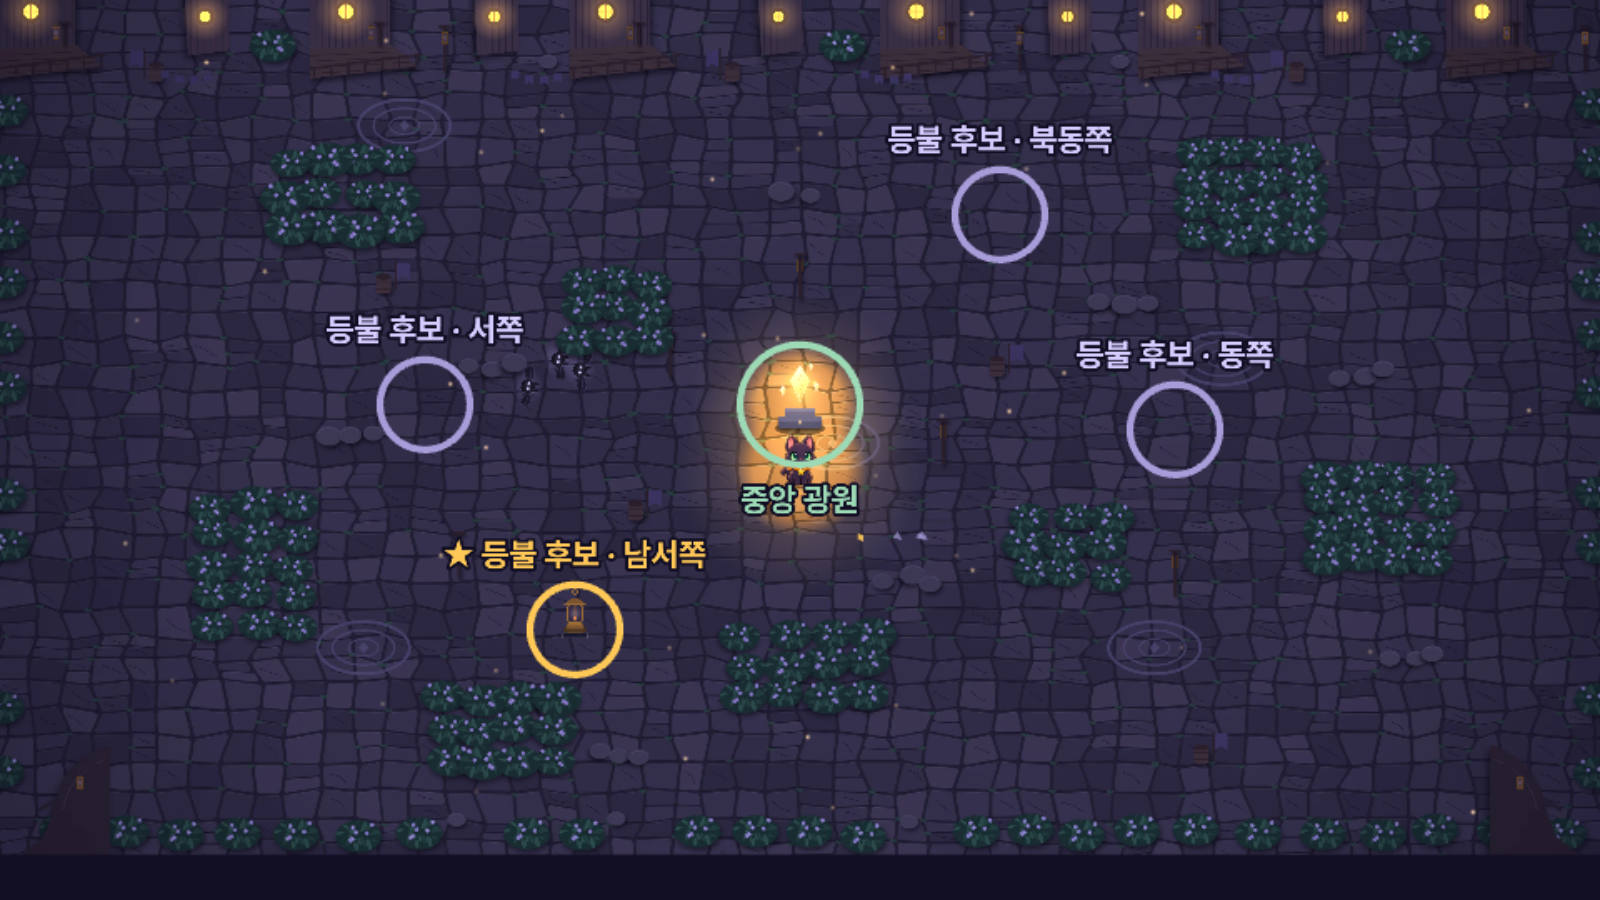
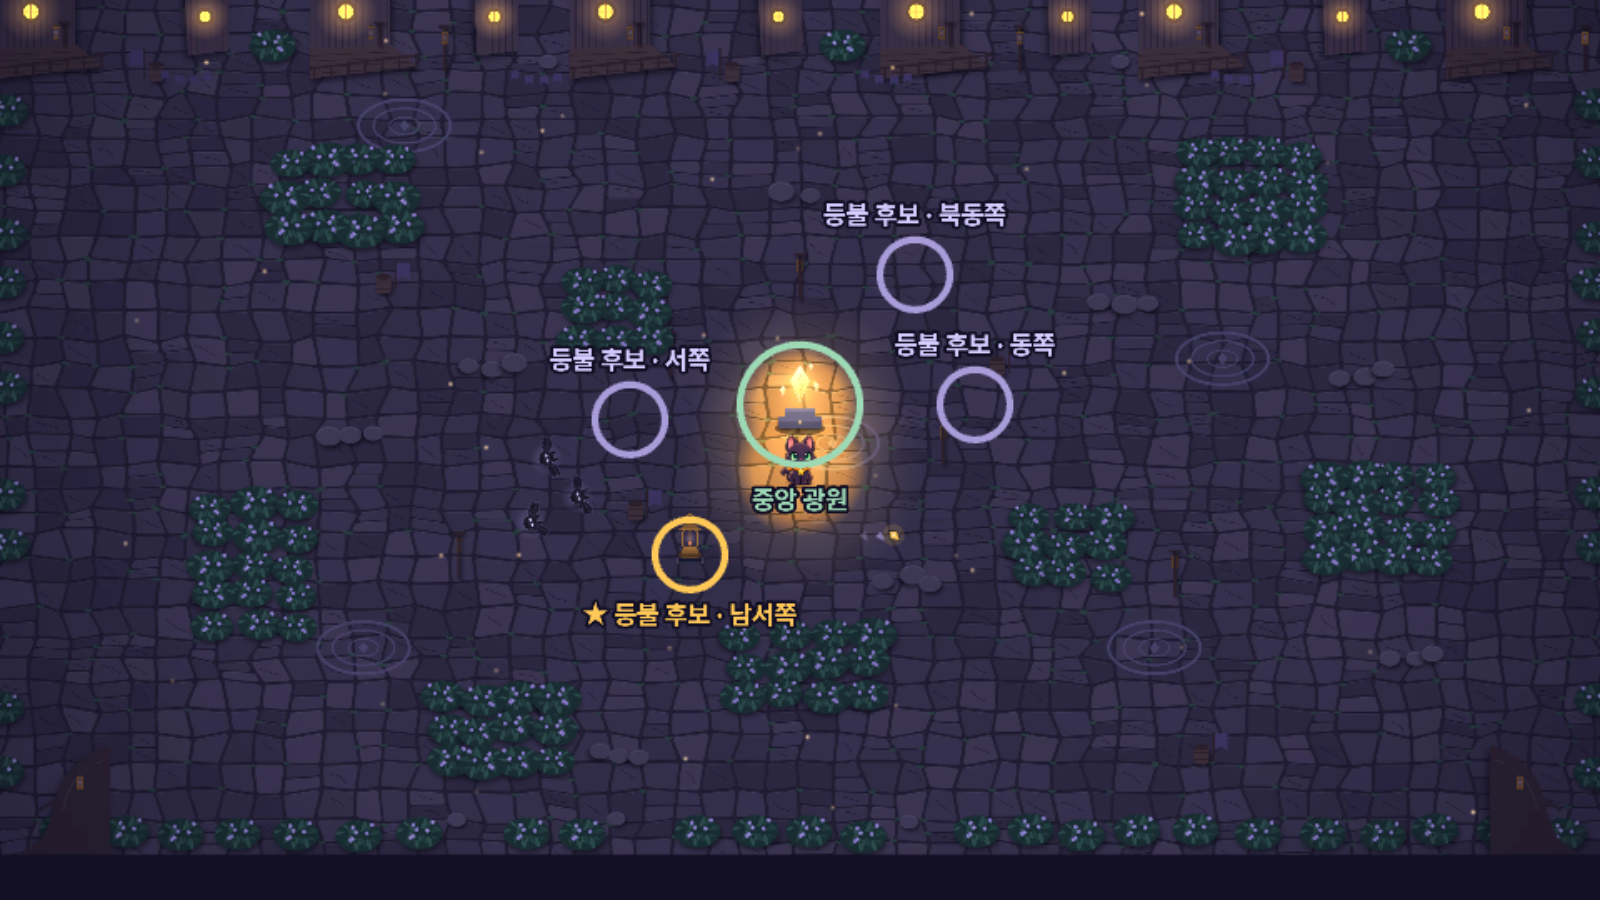
등불 자리를 중앙 가까이, 휴대폰 회전 시 화면이 작아지던 문제 수정
- 등불 후보 4곳을 중앙에서 약 340~370으로(처음 550~750), 지도 캡처·문서 갱신
- 레이아웃이 바뀌면 Phaser 부모 크기를 바로 다시 재고 0.12·0.4초 뒤 한 번 더 맞춤
  (옛 상자 폭에 갇혀 캔버스가 219×101로 굳던 문제, 헤드리스 휴대폰 회전으로 재현·확인)

Claude-Session: https://claude.ai/code/session_01HrPbr5mJU6i3pPUacduwos

diff --git a/docs/plan/revisions.html b/docs/plan/revisions.html
@@ -178,7 +178,7 @@
 </div>
 <ul>
   <li>마을 16:9 <b>3200×1800</b>, 카메라가 루미를 따라가고 둘 다 마을 밖으로 못 나간다. 화면은 짧은 변 540 고정(가로 폭 720~1280)이라 물체 크기는 그대로, 보는 프레임만 바뀐다.</li>
-  <li><b>중앙 광원</b>(1600, 900). <b>등불 자리 후보</b> 서쪽(850, 900) · 동쪽(2350, 950) · 북동쪽(2000, 520) · 남서쪽(1150, 1350) — 중앙에서 450~900 떨어진 외곽. 스테이지의 등불 수만큼(<b>첫 스테이지 1개</b>, 이후 최대 4개) 판마다 seed로 고른다. 화면 밖의 꺼진 등불은 가장자리에 숨 쉬듯 번지는 <b>호박빛 마름모</b>로 알리고, 판 시작에 "호박빛 표시를 따라 꺼진 등불을 켜요"라고 한 번 안내한다 <span class="tag">제안</span></li>
+  <li><b>중앙 광원</b>(1600, 900). <b>등불 자리 후보</b> 서쪽(1260, 930) · 동쪽(1950, 900) · 북동쪽(1830, 640) · 남서쪽(1380, 1200) — 중앙에서 약 340~370(2026-11-12 라이언: 멀다 → 가까이). 스테이지의 등불 수만큼(<b>첫 스테이지 1개</b>, 이후 최대 4개) 판마다 seed로 고른다. 화면 밖의 꺼진 등불은 가장자리에 숨 쉬듯 번지는 <b>호박빛 마름모</b>로 알리고, 판 시작에 "호박빛 표시를 따라 꺼진 등불을 켜요"라고 한 번 안내한다 <span class="tag">제안</span></li>
   <li><b>풀숲</b> 8곳: 들어가면 반투명, 140 안의 적만 알아채고 쫓던 적은 3초 맴돌다 광원으로, 빛을 쏘면 1초 드러남. 오래 숨으면 루미 자신의 빛 때문에 은신이 풀림 <span class="tag tag--todo">Phase 2</span></li>
   <li><b>장애물</b>: 바위·술통·등불 기둥 + 광원 받침·등불 밑동(루미는 못 지나감, 박쥐는 날아서 무시). 마을 건물·울타리·강과 다리, 지역 3구획 <span class="tag tag--todo">Phase 2</span></li>
 </ul>

diff --git a/src/ui/layout.ts b/src/ui/layout.ts
@@ -36,18 +36,33 @@ export function refreshLayout(): void {
   refresh();
 }
 
+/** 휴대폰은 방향을 바꾼 뒤에도 창 크기가 조금 늦게 확정된다: 그 뒤에 한 번 더 맞춘다 (ms) */
+const SETTLE_MS = [120, 400];
+
 export function watchLayout(game: Phaser.Game): void {
   let layout = applyLayout();
-  refresh = () => {
+  const sync = () => {
     const next = applyLayout();
     const view = currentView();
-    const size = game.scale.gameSize;
-    if (size.width !== view.width || size.height !== view.height) game.scale.setGameSize(view.width, view.height);
+    const scale = game.scale;
+    // 2026-11-12 휴대폰 회전 시 화면이 작아지던 문제: data-layout이 바뀌면 상자(#game의 부모) 크기도 바뀌는데,
+    // Phaser는 자기 차례(다음 폴링)에야 다시 잰다. 그 전에 새 비율로 맞추면 옛 상자 폭에 갇혀 작게 굳으므로 지금 다시 잰다.
+    scale.getParentBounds();
+    const size = scale.gameSize;
+    if (size.width !== view.width || size.height !== view.height) scale.setGameSize(view.width, view.height);
+    else scale.refresh();
     if (next !== layout) {
       layout = next;
       bus.emit('ui:layout', { layout });
     }
   };
+  let timers: number[] = [];
+  refresh = () => {
+    sync();
+    timers.forEach((t) => clearTimeout(t));
+    timers = SETTLE_MS.map((ms) => window.setTimeout(sync, ms));
+  };
   addEventListener('resize', refresh);
   screen.orientation?.addEventListener('change', refresh);
+  visualViewport?.addEventListener('resize', refresh);
 }

diff --git a/tests/map.test.ts b/tests/map.test.ts
@@ -52,11 +52,11 @@ describe('마을 배치', () => {
     }
   });
 
-  it('등불 자리는 중앙 광원에서 너무 멀지 않은 외곽 (XMind)', () => {
+  it('등불 자리는 중앙 광원 가까이 (2026-11-12 라이언: 멀다 → 약 340~370)', () => {
     for (const p of GameData.map.stations) {
       const d = Math.hypot(p.x - central.x, p.y - central.y);
-      expect(d).toBeGreaterThan(450);
-      expect(d).toBeLessThan(900);
+      expect(d).toBeGreaterThan(300);
+      expect(d).toBeLessThan(420);
     }
   });
 });

diff --git a/CLAUDE.md b/CLAUDE.md
@@ -65,7 +65,7 @@
 | LP | 10(=낮음, 0이 되지 않음)~100, 시작 100. 발사마다 −6, 꺼진 등불을 켜면 −10(쏜 뒤 깎임, 남은 양과 상관없이 켜짐 — XMind). 회복 초당: 들판 3 · 켜진 등불 180 안 6 · 중앙 광원 220 안 12. LP가 최소에 가까울수록 사거리·위력 ×0.7까지 약해짐. 루미 주변 빛(마을이 드러나는 반경)도 LP에 비례하고 진행할수록 넓어짐 |
 | 광도 | 0~100 연속값을 4단계로: <25 낮음 · <50 중간 · <75 밝음 · 크게 밝음 (`lightLevels`) |
 | 중앙 광원 | 맵 가운데(1600, 900), 광도 = HP(XMind). 45(중간)에서 시작해 초당 +0.4, 적에게 맞으면 감소, 10에 닿으면 꺼짐 = 게임 오버. 받침은 지나갈 수 없음 |
-| 등불 스테이션 | 1~4개(**1스테이지는 1개** — 2026-11-12 라이언 확인), 자리는 `map.json stations` 후보 4곳(서·동·북동·남서) 중 스테이지 등불 수만큼 판마다 seed로(외곽, 중앙에서 450~900). 화면 밖의 꺼진 등불은 가장자리 호박빛 마름모(크게, 1.6초 주기로 숨 쉬듯 번짐). HP 없이 광도 게이지. 꺼짐(10) → 빛을 맞으면 1.2초 뒤 켜짐(100) → 적에게 맞으면 광원 피해 ×0.5씩 감소, 10이면 다시 꺼짐. 맵 전체 광도가 더 크면 그 값을 따름. **모두 켜지면 맵 전체 광도 ×1.35(버프)** |
+| 등불 스테이션 | 1~4개(**1스테이지는 1개** — 2026-11-12 라이언 확인), 자리는 `map.json stations` 후보 4곳(서·동·북동·남서) 중 스테이지 등불 수만큼 판마다 seed로. 자리는 서(1260, 930)·동(1950, 900)·북동(1830, 640)·남서(1380, 1200) — **중앙에서 약 340~370**(2026-11-12 라이언: 멀다 → 처음 550~750에서 당김). 화면 밖의 꺼진 등불은 가장자리 호박빛 마름모(크게, 1.6초 주기로 숨 쉬듯 번짐). HP 없이 광도 게이지. 꺼짐(10) → 빛을 맞으면 1.2초 뒤 켜짐(100) → 적에게 맞으면 광원 피해 ×0.5씩 감소, 10이면 다시 꺼짐. 맵 전체 광도가 더 크면 그 값을 따름. **모두 켜지면 맵 전체 광도 ×1.35(버프)** |
 | 맵 전체 광도 | `systems/villageMood.ts MapLight`: 0.55 × 진행²(버프 ×1.35)이 켜진 마을로 드러남. 중앙 광원이 맞으면 −0.1, 루미가 맞으면 −0.03(클라이맥스 ×1.6), 초당 0.06씩 회복. 떨어진 폭이 밝아짐보다 크면 어둠이 덮임 |
 | 빛 | 60° 부채꼴, 0.25초에 퍼짐(쏜 자리에서), 최대 사거리 캐릭터별(루미 330), 끈 거리에 비례, 대기 0.4초, 넉백 70, 스턴 0.3초. 적과 꺼진 등불을 맞힘 |
 | 적 AI | 루미가 보이고 480 안이면 루미, 아니면 가까운 광원(중앙·켜진 등불). 붙으면 주기마다 피해(밀려났다 다시 붙어도 주기를 지킴), 목표가 ×1.25 밖으로 멀어지면 떨어짐 |
@@ -140,7 +140,7 @@ UI는 한국어, 코드 식별자는 영어 id.
 - 엔티티: `Lightkeeper`(루미), `CentralSource`, `LightStation`, `enemies/Enemy`(목표 고르기) · `Bat` · `Frog`, `VillageStage`, `MapProps`, `AimGuide`, `LightFx`, `EdgeArrows`.
 - 데이터: `src/data/game.json`(공통)·`stages.json`·`characters.json`·`enemies.json`(`kind`·`implemented`)·`items.json`·`map.json`(`stations` 후보 포함). `waves.json`·`equipment.json`은 2026-11-12에 없앴다.
 - 두 스틱은 DOM(`src/ui/Sticks.ts`)이고 `input:move / input:aim / input:fire` 이벤트로 게임에 보낸다. PC는 `src/input/DesktopControls.ts`. 메뉴 화면은 씬 없이 DOM, Phaser는 Boot → Preload → Play.
-- 레이아웃: `<html data-layout="portrait|landscape">`(`src/ui/layout.ts`, 판정 `src/core/layout.ts`), 가로 `--u = 100cqh / 540`, 가로 배치 CSS는 `style.css`·`screens.css` 끝의 `:root[data-layout='landscape']`. UI 재질은 `src/ui/finish.css`.
+- 레이아웃: `<html data-layout="portrait|landscape">`(`src/ui/layout.ts`, 판정 `src/core/layout.ts`). 바뀌면 Phaser 부모 크기를 바로 다시 재고(`scale.getParentBounds()`) 0.12·0.4초 뒤 한 번 더 맞춘다 — 안 그러면 옛 상자 폭에 갇혀 캔버스가 작아짐(2026-11-12 휴대폰 회전 버그), 가로 `--u = 100cqh / 540`, 가로 배치 CSS는 `style.css`·`screens.css` 끝의 `:root[data-layout='landscape']`. UI 재질은 `src/ui/finish.css`.
 - Phaser 씬 ↔ DOM UI는 `src/core/events.ts` 이벤트로만. HUD는 이벤트가 올 때만 갱신(`player:vitals`·`lp:change`·`central:change`·`station:change` 등은 값이 바뀔 때만 발행).
 
 ## 7. 서버 (2026-10-28, 라이언 결정: Firebase로 전부)
@@ -249,4 +249,5 @@ UI는 한국어, 코드 식별자는 영어 id.
 - 2026-11-12 · 확인 질문 답(전부 1~4·9·10절에 반영): **최근에 수정된 것을 따른다** / 여우·삵은 넣지 않음(확장 때만) / **루미는 등불을 들지 않고 빛을 발사** / **장착물은 없애고 아이템으로 대체**, 시너지·대광원·금지어·설명 원칙은 Claude 판단 / 하트를 잃으면 **HP 100%**, 무적 시간은 Claude 판단 / 광원·등불·LP 수치는 Claude 판단, **첫 스테이지는 쉽게** / 기본 승리 = 하트 1개 이상 / 자비는 횟수 제한 없음, 개체수·분노 수치는 Claude 판단 / 반자동은 대상이 없으면 쏘지 않음 / git·미리보기 채널 사용 / **맵 3종 = 스테이지 테마** / 나머지는 Claude 판단.
 - 2026-11-12 · 답을 반영해 바로 오토모드로 실행: Step 0(git·문서) + Phase 1 진행 후 보고·대기(9절).
 - 2026-11-12 · Phase 1 보고에 대한 답(1·2·5·6·8·10절): **자비는 어둠의 패시브 주민 대상**(공격하지 않으면 자비 점수) / 잃어버린 주민은 빛을 맞으면 되찾아 **중앙으로 뛰어가는 몸짓과 함께 사라짐** / **기획서 PDF를 지금 고친다**(새 기획 전체로 개정판 다시 만듦) / **디자인 기준 문서**(PRODUCT.md·DESIGN.md·surface brief)도 새 기획으로 / 버벅임은 공격 등 효과에서 보고됨 — 라이언이 나중에 다시 검증 / **루미처럼 정해진 에셋이 아니면 모든 그림은 임시 그림을 직접 그린다** / 캐릭터 선택 화면의 캐릭터들 수정(토리·도토 새 초상, 잠긴 동안 빛을 잃은 모습) / **라이브 사이트 갱신**(피드백을 받아야 함).
+- 2026-11-12 · 등불 스테이션이 다소 멀다 → 중앙 가까이(3절, 약 340~370). 휴대폰에서 가로·세로를 바꾸면 게임 화면이 작아지는 현상을 고친다(6절 구조 메모 레이아웃).
 - 2026-11-12 · 첫 번째 스테이지는 등불이 한 개여야 한다(3절, 지금도 1개 — 지도의 네 곳은 그 1개가 놓일 수 있는 후보 자리).

diff --git a/docs/skill/light-defense-game/references/gameplay-systems.md b/docs/skill/light-defense-game/references/gameplay-systems.md
@@ -60,7 +60,7 @@
 | 주인공 주변 | LP 비례(위) |
 | 지역(Phase 2) | 빛의 마을 낮음→크게 밝음, 경계는 중간 그라데이션, 어둠의 마을 낮음→중간 |
 
-등불 자리: `map.json stations` 후보 4곳(서 850,900 · 동 2350,950 · 북동 2000,520 · 남서 1150,1350 — 외곽, 중앙에서 450~900) 중 스테이지 등불 수만큼 판마다 seed로 고른다(1스테이지는 그중 한 곳). 화면 밖에 있으면 가장자리 호박빛 마름모가 숨 쉬듯 번지고, 판 시작에 "호박빛 표시를 따라 꺼진 등불을 켜요" 안내.
+등불 자리: `map.json stations` 후보 4곳(서 1260,930 · 동 1950,900 · 북동 1830,640 · 남서 1380,1200 — 중앙에서 약 340~370, 2026-11-12 라이언: 멀다 → 당김) 중 스테이지 등불 수만큼 판마다 seed로 고른다(1스테이지는 그중 한 곳). 화면 밖에 있으면 가장자리 호박빛 마름모가 숨 쉬듯 번지고, 판 시작에 "호박빛 표시를 따라 꺼진 등불을 켜요" 안내.
 
 ## 빛 (`systems/LightSystem.ts`, `fan.ts`)
 
